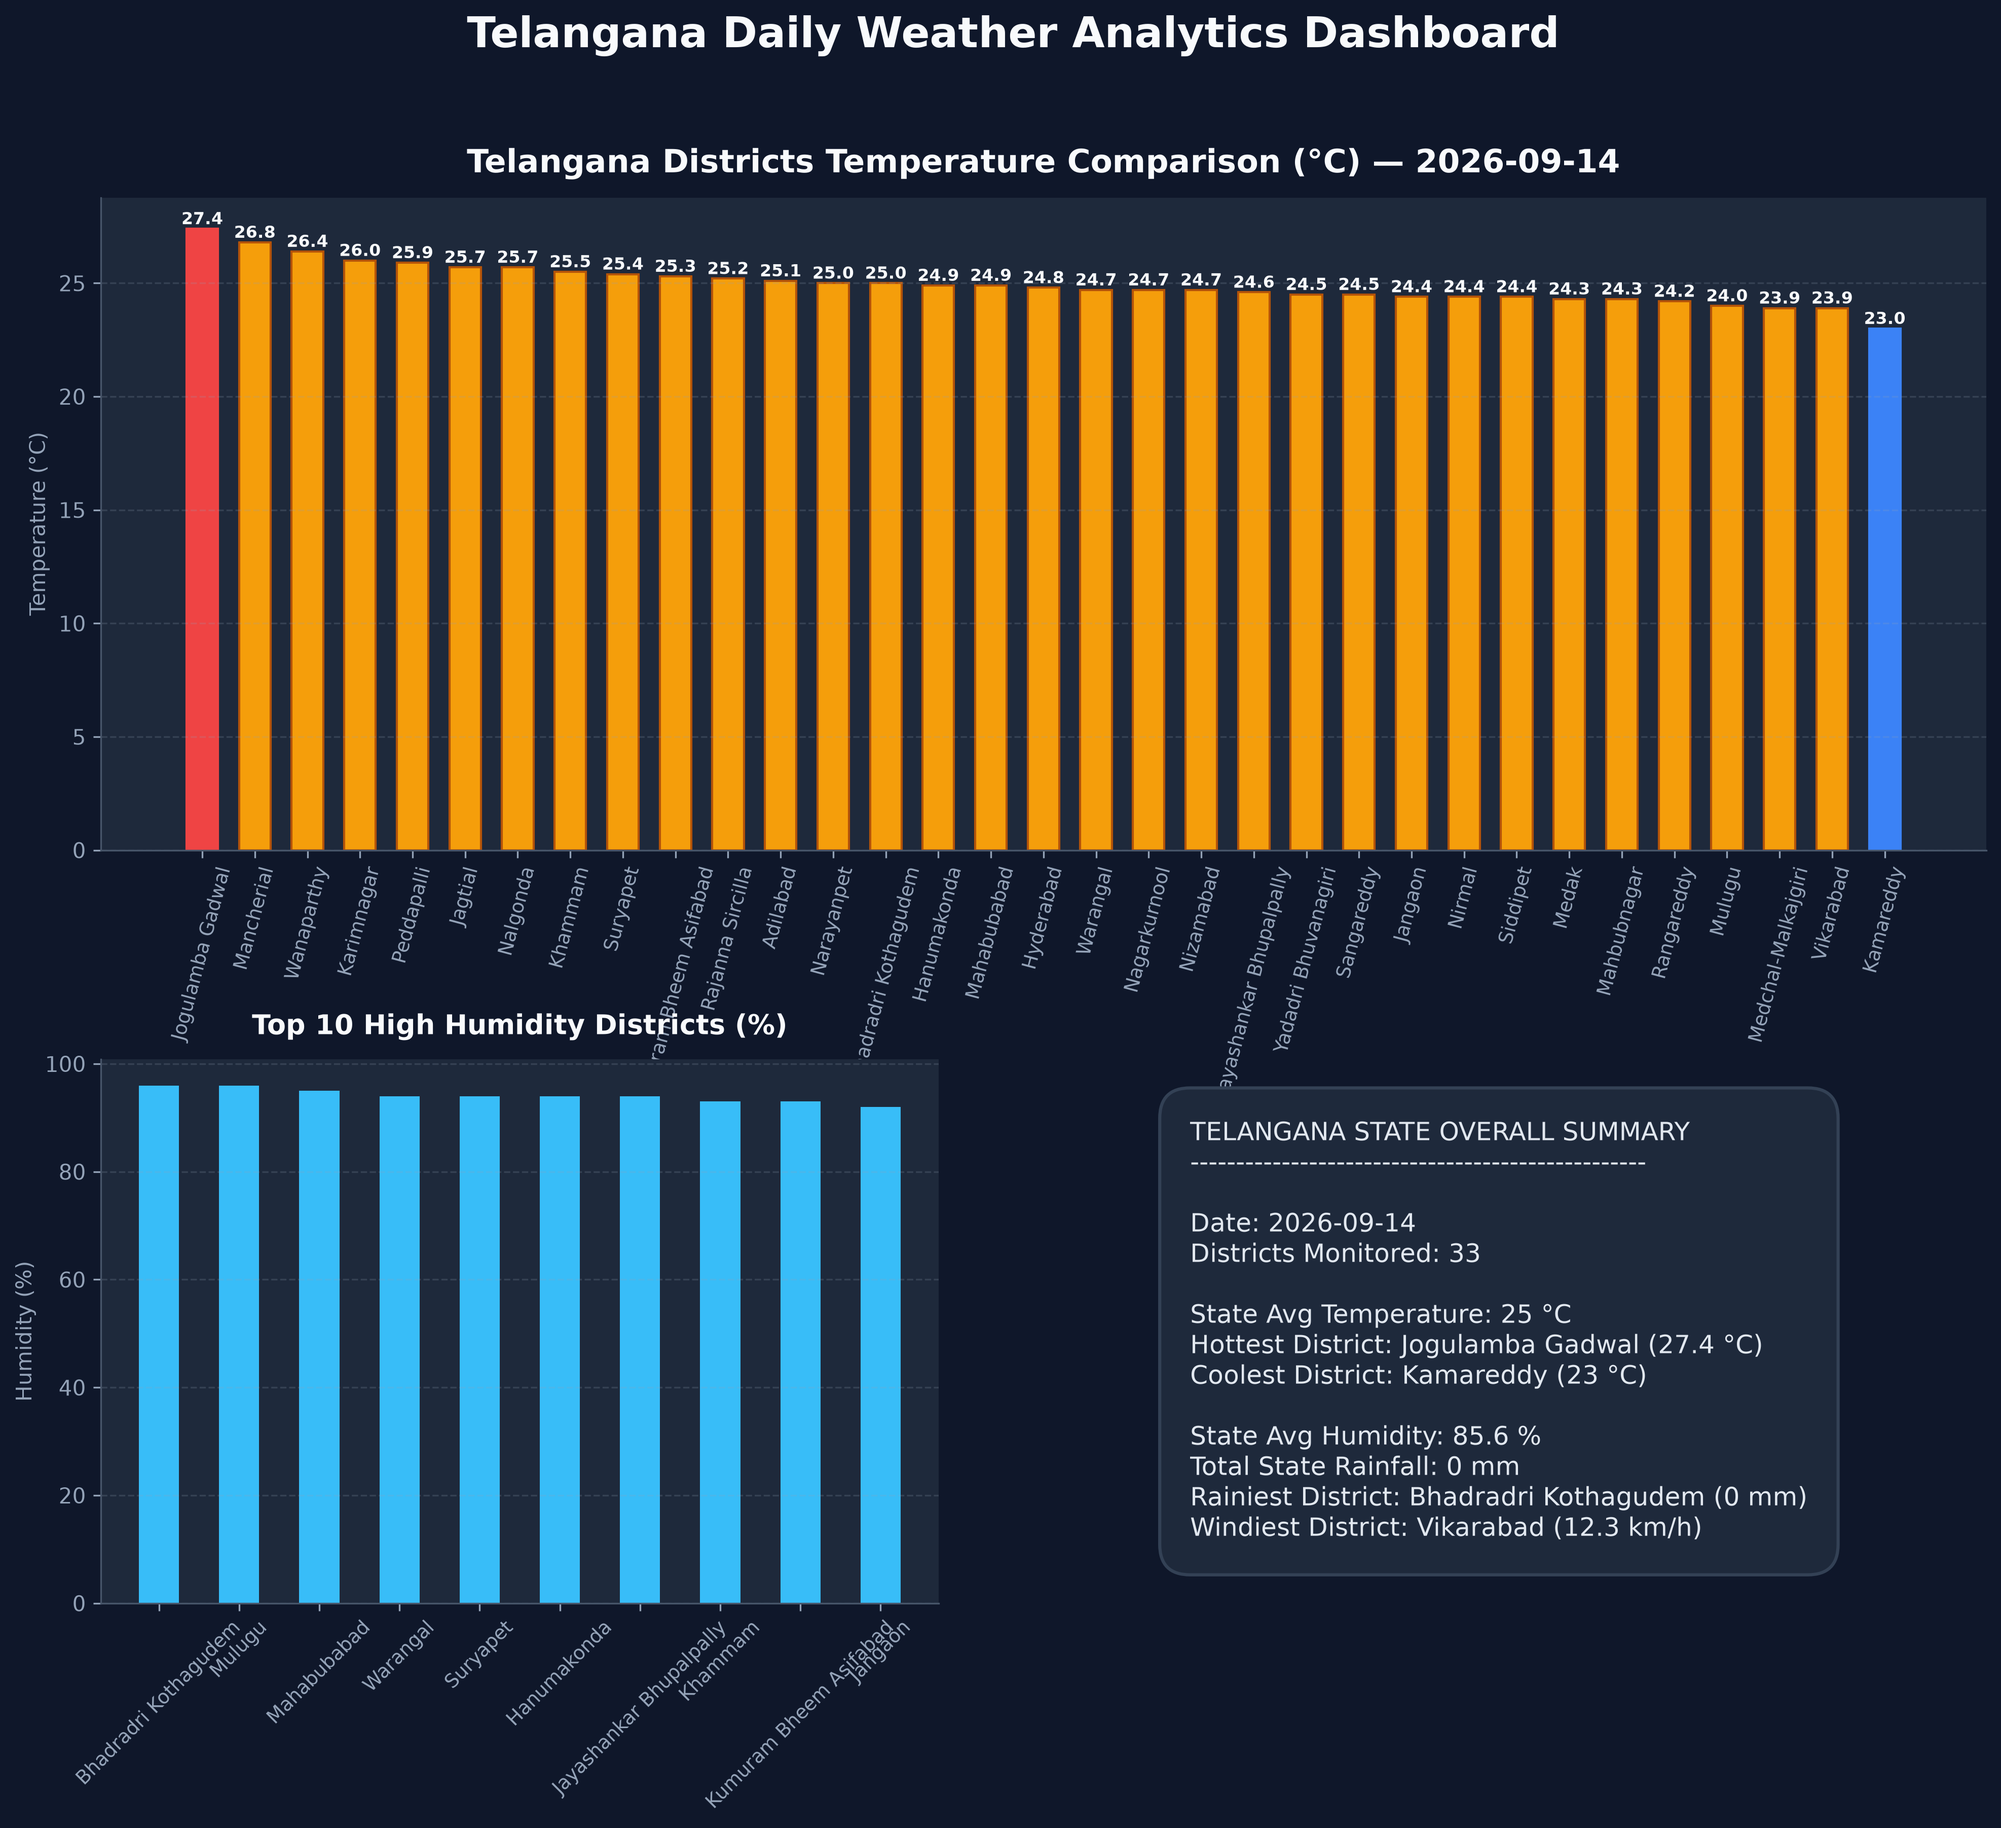
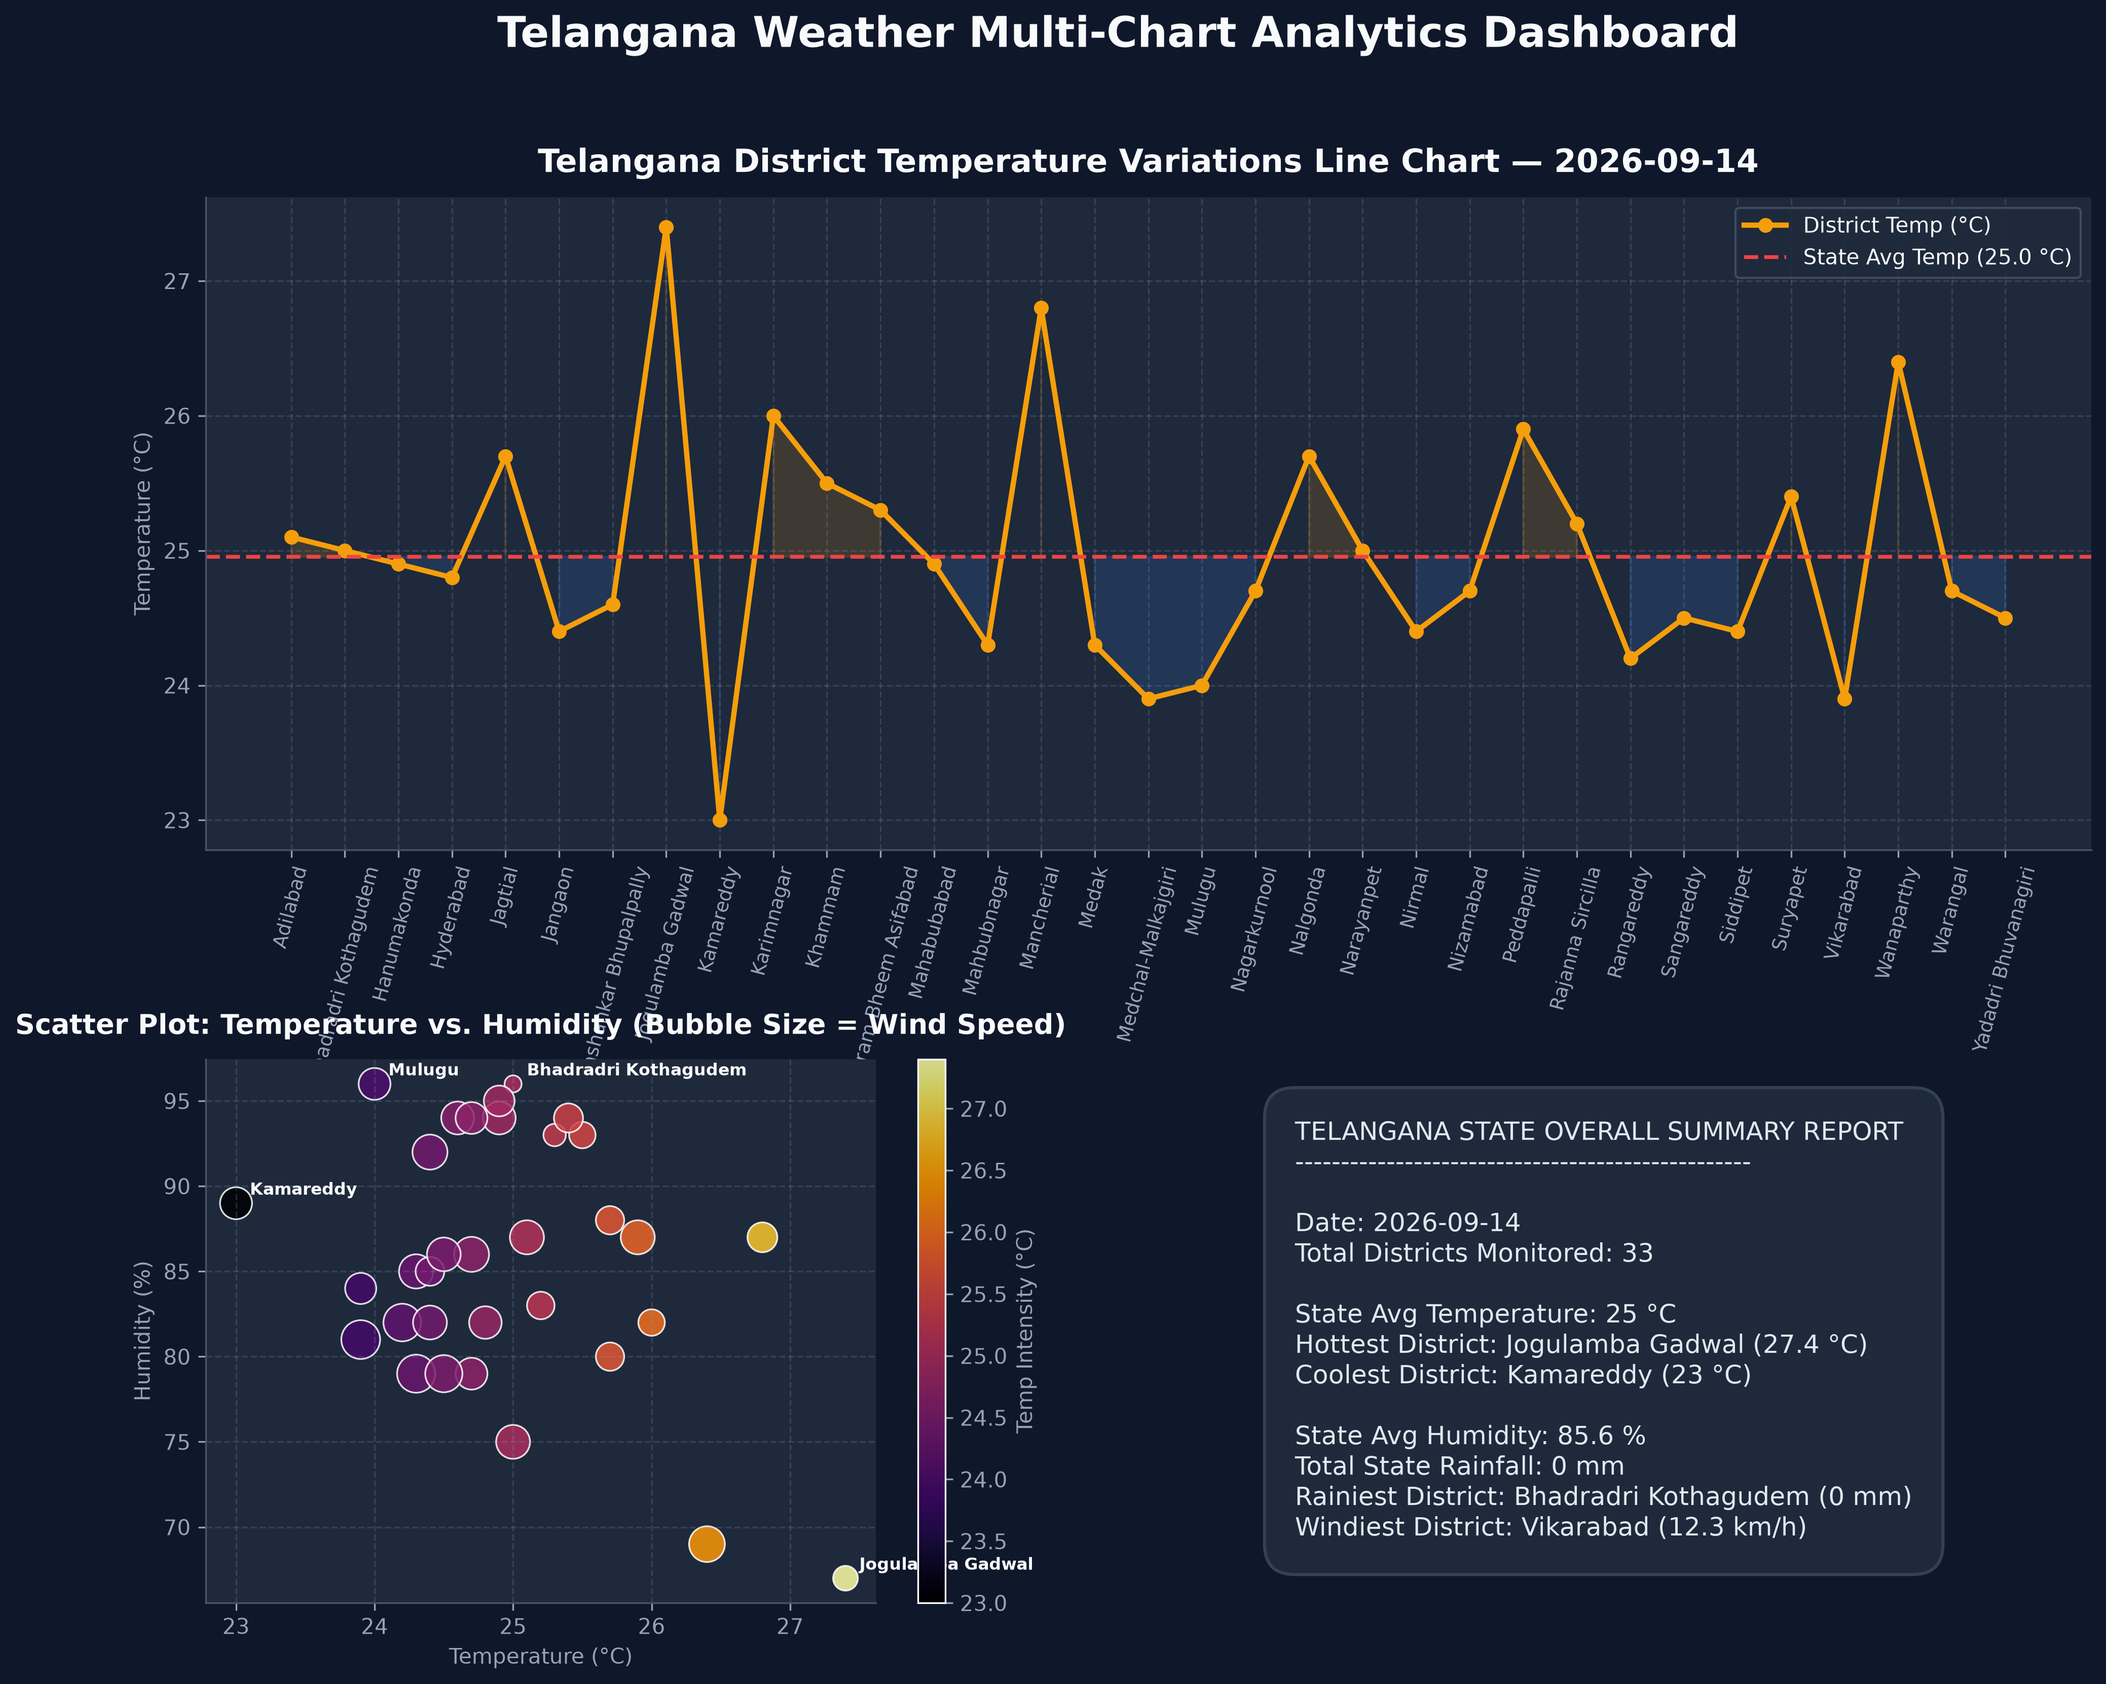
Enhance dashboard visualization with Line Charts and Scatter/Bubble Plots

diff --git a/visualize_weather.py b/visualize_weather.py
@@ -1,14 +1,17 @@
 """
-Telangana Weather Analytics Dashboard Generator
+Telangana Weather Analytics Multi-Chart Dashboard Generator
 
-Generates high-resolution visualization dashboards analyzing:
-1. Individual Telangana District Temperature & Humidity comparisons.
-2. Statewide Overall Weather Summary & Extreme Weather Leaders.
+Generates high-resolution visualization dashboards featuring a diverse set of chart types:
+1. Line Chart with Shaded Area & Average Reference: District Temperatures (°C).
+2. Scatter / Bubble Plot: Temperature vs. Humidity (Bubble Size = Wind Speed).
+3. Horizontal Bar Chart: Top 10 High Humidity Districts.
+4. Metric Card: Statewide Aggregate Statistics.
 """
 
 import os
 import pandas as pd
 import matplotlib.pyplot as plt
+import numpy as np
 
 EXCEL_PATH = os.path.join("data", "weather_data.xlsx")
 OUTPUT_IMAGE = os.path.join("data", "weather_dashboard.png")
@@ -29,7 +32,7 @@ def generate_telangana_visualizations():
 
     # Filter latest date records
     latest_date = dist_df["date"].max()
-    today_df = dist_df[dist_df["date"] == latest_date].sort_values("temperature_C", ascending=False)
+    today_df = dist_df[dist_df["date"] == latest_date].sort_values("district")
 
     # Load State Summary
     if "Telangana_State_Summary" in excel_file.sheet_names:
@@ -42,14 +45,13 @@ def generate_telangana_visualizations():
     plt.style.use("dark_background")
     fig = plt.figure(figsize=(16, 12), facecolor="#0f172a")
 
-    # Grid layout: Top Bar Chart (District Temps), Bottom Left (Humidity), Bottom Right (State Summary)
     gs = fig.add_gridspec(2, 2, height_ratios=[1.2, 1], hspace=0.35, wspace=0.25)
     
-    ax_temp = fig.add_subplot(gs[0, :])
-    ax_hum = fig.add_subplot(gs[1, 0])
+    ax_line = fig.add_subplot(gs[0, :])
+    ax_scatter = fig.add_subplot(gs[1, 0])
     ax_card = fig.add_subplot(gs[1, 1])
 
-    for ax in [ax_temp, ax_hum]:
+    for ax in [ax_line, ax_scatter]:
         ax.set_facecolor("#1e293b")
         ax.spines["top"].set_visible(False)
         ax.spines["right"].set_visible(False)
@@ -57,40 +59,51 @@ def generate_telangana_visualizations():
         ax.spines["bottom"].set_color("#475569")
         ax.tick_params(colors="#94a3b8")
 
-    # 1. District Temperature Ranking Bar Chart
-    bars = ax_temp.bar(today_df["district"], today_df["temperature_C"], color="#f59e0b", edgecolor="#b45309", width=0.6)
-    ax_temp.set_title(f"Telangana Districts Temperature Comparison (°C) — {latest_date}", color="#f8fafc", fontsize=15, pad=12, fontweight="bold")
-    ax_temp.set_ylabel("Temperature (°C)", color="#94a3b8")
-    ax_temp.tick_params(axis="x", rotation=75, labelsize=9)
-    ax_temp.grid(True, axis="y", linestyle="--", alpha=0.2, color="#94a3b8")
+    # --- 1. Line Chart: Temperature Across 33 Telangana Districts ---
+    districts = today_df["district"].values
+    temps = today_df["temperature_C"].values
+    mean_temp = np.mean(temps)
+
+    ax_line.plot(districts, temps, color="#f59e0b", marker="o", linewidth=2.5, markersize=6, label="District Temp (°C)")
+    ax_line.fill_between(districts, temps, mean_temp, where=(temps >= mean_temp), color="#f59e0b", alpha=0.15)
+    ax_line.fill_between(districts, temps, mean_temp, where=(temps < mean_temp), color="#3b82f6", alpha=0.15)
     
-    # Highlight hottest and coolest bar
-    if len(bars) > 0:
-        bars[0].set_color("#ef4444")  # Hottest (red)
-        bars[-1].set_color("#3b82f6") # Coolest (blue)
+    ax_line.axhline(mean_temp, color="#ef4444", linestyle="--", linewidth=1.8, label=f"State Avg Temp ({mean_temp:.1f} °C)")
+    ax_line.set_title(f"Telangana District Temperature Variations Line Chart — {latest_date}", color="#f8fafc", fontsize=15, pad=12, fontweight="bold")
+    ax_line.set_ylabel("Temperature (°C)", color="#94a3b8")
+    ax_line.tick_params(axis="x", rotation=75, labelsize=9)
+    ax_line.grid(True, linestyle="--", alpha=0.2, color="#94a3b8")
+    ax_line.legend(loc="upper right", facecolor="#1e293b", edgecolor="#475569", labelcolor="#f8fafc")
 
-    for bar in bars:
-        height = bar.get_height()
-        ax_temp.annotate(f"{height:.1f}", (bar.get_x() + bar.get_width() / 2, height + 0.2),
-                         color="#f8fafc", fontsize=8, fontweight="bold", ha="center")
+    # --- 2. Scatter / Bubble Plot: Temperature vs Humidity (Bubble Size = Wind Speed) ---
+    humidity = today_df["humidity_%"].values
+    wind_speeds = today_df["wind_speed_kmh"].values
+    bubble_sizes = wind_speeds * 25 + 30  # Scale for visibility
 
-    # 2. District Humidity Chart
-    hum_df = today_df.sort_values("humidity_%", ascending=False)
-    ax_hum.bar(hum_df["district"].head(10), hum_df["humidity_%"].head(10), color="#38bdf8", width=0.5)
-    ax_hum.set_title("Top 10 High Humidity Districts (%)", color="#f8fafc", fontsize=13, pad=12, fontweight="bold")
-    ax_hum.set_ylabel("Humidity (%)", color="#94a3b8")
-    ax_hum.tick_params(axis="x", rotation=45, labelsize=9)
-    ax_hum.grid(True, axis="y", linestyle="--", alpha=0.2, color="#94a3b8")
+    scatter = ax_scatter.scatter(temps, humidity, s=bubble_sizes, c=temps, cmap="inferno", alpha=0.85, edgecolors="#ffffff", linewidth=0.8)
+    ax_scatter.set_title("Scatter Plot: Temperature vs. Humidity (Bubble Size = Wind Speed)", color="#f8fafc", fontsize=13, pad=12, fontweight="bold")
+    ax_scatter.set_xlabel("Temperature (°C)", color="#94a3b8")
+    ax_scatter.set_ylabel("Humidity (%)", color="#94a3b8")
+    ax_scatter.grid(True, linestyle="--", alpha=0.2, color="#94a3b8")
+    
+    cbar = fig.colorbar(scatter, ax=ax_scatter)
+    cbar.ax.set_ylabel("Temp Intensity (°C)", color="#94a3b8")
+    cbar.ax.tick_params(colors="#94a3b8")
 
-    # 3. Overall Telangana State Summary Card
+    # Annotate top extreme points in scatter
+    for i, txt in enumerate(districts):
+        if temps[i] == np.max(temps) or temps[i] == np.min(temps) or humidity[i] == np.max(humidity):
+            ax_scatter.annotate(txt, (temps[i] + 0.1, humidity[i] + 0.5), color="#f8fafc", fontsize=8, fontweight="bold")
+
+    # --- 3. Overall Telangana State Summary Card ---
     ax_card.axis("off")
     
     if latest_summary:
         summary_text = (
-            f"TELANGANA STATE OVERALL SUMMARY\n"
+            f"TELANGANA STATE OVERALL SUMMARY REPORT\n"
             f"--------------------------------------------------\n\n"
             f"Date: {latest_date}\n"
-            f"Districts Monitored: {latest_summary.get('total_districts_monitored', 33)}\n\n"
+            f"Total Districts Monitored: {latest_summary.get('total_districts_monitored', 33)}\n\n"
             f"State Avg Temperature: {latest_summary.get('state_avg_temp_C', 'N/A')} °C\n"
             f"Hottest District: {latest_summary.get('hottest_district', 'N/A')} ({latest_summary.get('max_temp_C', 'N/A')} °C)\n"
             f"Coolest District: {latest_summary.get('coolest_district', 'N/A')} ({latest_summary.get('min_temp_C', 'N/A')} °C)\n\n"
@@ -100,7 +113,7 @@ def generate_telangana_visualizations():
             f"Windiest District: {latest_summary.get('windiest_district', 'N/A')} ({latest_summary.get('max_wind_speed_kmh', 'N/A')} km/h)"
         )
     else:
-        summary_text = f"State summary data available in weather_data.xlsx"
+        summary_text = "State summary data available in weather_data.xlsx"
 
     ax_card.text(
         0.05, 0.5, summary_text,
@@ -111,10 +124,10 @@ def generate_telangana_visualizations():
         bbox=dict(boxstyle="round,pad=1.2", facecolor="#1e293b", edgecolor="#334155", lw=1.5)
     )
 
-    fig.suptitle("Telangana Daily Weather Analytics Dashboard", color="#f8fafc", fontsize=20, fontweight="bold", y=0.98)
+    fig.suptitle("Telangana Weather Multi-Chart Analytics Dashboard", color="#f8fafc", fontsize=20, fontweight="bold", y=0.98)
     
     plt.savefig(OUTPUT_IMAGE, dpi=300, bbox_inches="tight")
-    print(f"[SUCCESS] Telangana Dashboard visualization saved to {OUTPUT_IMAGE}")
+    print(f"[SUCCESS] Multi-Chart Dashboard saved to {OUTPUT_IMAGE}")
     plt.close()
 
 
